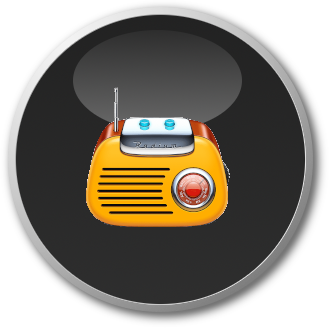
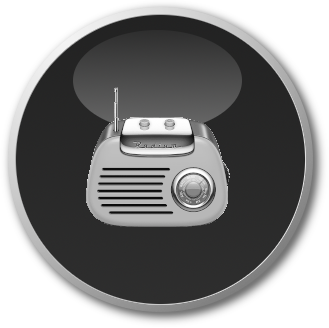
gfx update

Changed region(s): [[0.2432, 0.3659, 0.6991, 0.7012], [0.4863, 0.3659, 0.5471, 0.3963], [0.4255, 0.3659, 0.4559, 0.3963]]

diff --git a/main.cpp b/main.cpp
@@ -792,8 +792,11 @@ GLuint onlineradio192;                    //
 GLuint onlineradio320;                    //
 GLuint radiooptions;                      //
 GLuint radiobutton;                       //
+GLuint radiobutton1;                       //
 GLuint tidalbutton;                       //
+GLuint tidalbutton1;                       //
 GLuint spotifybutton;                     //
+GLuint spotifybutton1;                     //
 GLuint spotify_askplay;                   //
 GLuint spotify_askopen;                   //
 GLuint spotify_search;                    // button in spotify search
@@ -3188,7 +3191,7 @@ void display() {
         glTexCoord2f(1, 0); glVertex3f( config_menu.config_mediax+iconsizex, config_menu.config_mediay , 0.0);
         glEnd();
       } else if (vis_spotify_oversigt) {
-        glBindTexture(GL_TEXTURE_2D, spotifybutton);                         // default show music/radio/film/stream/spotify play info
+        glBindTexture(GL_TEXTURE_2D, spotifybutton1);                         // default show music/radio/film/stream/spotify play info
         glLoadName(2);                                                           // Info icon nr 82 spotify
         glBegin(GL_QUADS);
         glTexCoord2f(0, 0); glVertex3f( config_menu.config_spotify1x, config_menu.config_spotify1y , 0.0);
@@ -3197,7 +3200,7 @@ void display() {
         glTexCoord2f(1, 0); glVertex3f( config_menu.config_spotify1x+iconsizex, config_menu.config_spotify1y , 0.0);
         glEnd();
       } else if (vis_tidal_oversigt) { 
-        glBindTexture(GL_TEXTURE_2D, tidalbutton);                               // default show music/radio/film/stream/spotify play info
+        glBindTexture(GL_TEXTURE_2D, tidalbutton1);                               // default show music/radio/film/stream/spotify play info
         glLoadName(2);                                                           // Info icon nr 82 spotify
         glBegin(GL_QUADS);
         glTexCoord2f(0, 0); glVertex3f( config_menu.config_tidal1x, config_menu.config_tidal1y , 0.0);
@@ -3235,7 +3238,7 @@ void display() {
           glTexCoord2f(1, 0); glVertex3f( config_menu.config_music_activex+iconsizex, config_menu.config_music_activey , 0.0);
           glEnd();
         } else if (vis_radio_oversigt) {
-          glBindTexture(GL_TEXTURE_2D,radiobutton);                   //
+          glBindTexture(GL_TEXTURE_2D,radiobutton1);                   //
           glLoadName(2); 			// Overwrite the first name in the buffer
           glBegin(GL_QUADS);
           glTexCoord2f(0, 0); glVertex3f( config_menu.config_radio1x, config_menu.config_radio1y , 0.0);
@@ -3354,7 +3357,7 @@ void display() {
           } else {
             // recorded icon
             if (vis_recorded_oversigt) {
-              glBindTexture(GL_TEXTURE_2D, _textureIdrecorded); // _textureIdrecorded_aktiv);
+              glBindTexture(GL_TEXTURE_2D, _textureIdrecorded_aktiv); // _textureIdrecorded_aktiv);
               glLoadName(4);                                                        //
               glBegin(GL_QUADS);
               glTexCoord2f(0, 0); glVertex3f( config_menu.config_recorded1x, config_menu.config_recorded1y , 0.0);
@@ -15121,6 +15124,7 @@ void loadgfx() {
     
     // radiobutton           = loadgfxfile(temapath,(char *) "buttons/",(char *) "radio_button");
     radiobutton           = loadgfxfile((char *) config_menu.config_tema_path.c_str(),(char *) "buttons/",(char *) config_menu.config_radio_icon.c_str());     // "radio_button");				// setup menu
+    radiobutton1          = loadgfxfile((char *) config_menu.config_tema_path.c_str(),(char *) "buttons/",(char *) config_menu.config_radio1_icon.c_str());     // "radio_button");				// setup menu
 
     // musicbutton           = loadgfxfile(temapath,(char *) "buttons/",(char *) "music_button");
     musicbutton           = loadgfxfile((char *) config_menu.config_tema_path.c_str(),(char *) "buttons/",(char *) config_menu.config_music_icon.c_str());     // "radio_button");				// setup menu
@@ -15137,9 +15141,11 @@ void loadgfx() {
     
     // spotifybutton         = loadgfxfile(temapath,(char *) "buttons/",(char *) "spotify_button");
     spotifybutton         = loadgfxfile((char *) config_menu.config_tema_path.c_str(),(char *) "buttons/",(char *) config_menu.config_spotify_icon.c_str());     // "spotify_button");				// setup menu
+    spotifybutton1         = loadgfxfile((char *) config_menu.config_tema_path.c_str(),(char *) "buttons/",(char *) config_menu.config_spotify1_icon.c_str());     // "spotify_button");				// setup menu
 
     // tidalbutton           = loadgfxfile(temapath,(char *) "buttons/",(char *) "tidal_button");
     tidalbutton           = loadgfxfile((char *) config_menu.config_tema_path.c_str(),(char *) "buttons/",(char *) config_menu.config_tidal_icon.c_str());     // "tidal_button");				// setup menu
+    tidalbutton1          = loadgfxfile((char *) config_menu.config_tema_path.c_str(),(char *) "buttons/",(char *) config_menu.config_tidal1_icon.c_str());     // "tidal_button1");				// setup menu
 
     spotify_ecover        = loadgfxfile(temapath,(char *) "images/",(char *) "spotify_ecover");
     tidal_ecover        = loadgfxfile(temapath,(char *) "images/",(char *) "tidal_ecover");
@@ -15325,6 +15331,7 @@ void freegfx() {
     glDeleteTextures( 1, &onlineradio192);			    // radio icon
     glDeleteTextures( 1, &onlineradio320);			    // radio icon
     glDeleteTextures( 1, &radiobutton);             //
+    glDeleteTextures( 1, &radiobutton1);             //
     glDeleteTextures( 1, &onlinestream);            // stream default icons
     glDeleteTextures( 1, &onlinestream_empty);      // stream default icons
     glDeleteTextures( 1, &onlinestream_empty1);     // stream default icons
@@ -15334,7 +15341,10 @@ void freegfx() {
     glDeleteTextures( 1, &spotify_search_back);     // back button in spotify search view
     glDeleteTextures( 1, &spotify_askplay);         //
     glDeleteTextures( 1, &spotifybutton);           //
+    glDeleteTextures( 1, &spotifybutton1);           //
     glDeleteTextures( 1, &spotify_ecover);          //
+    glDeleteTextures( 1, &tidalbutton);          //
+    glDeleteTextures( 1, &tidalbutton1);          //
     glDeleteTextures( 1, &tidal_ecover);            //
     glDeleteTextures( 1, &spotify_pil);             //
     glDeleteTextures( 1, &big_search_bar_playlist); // Spotify stuf
